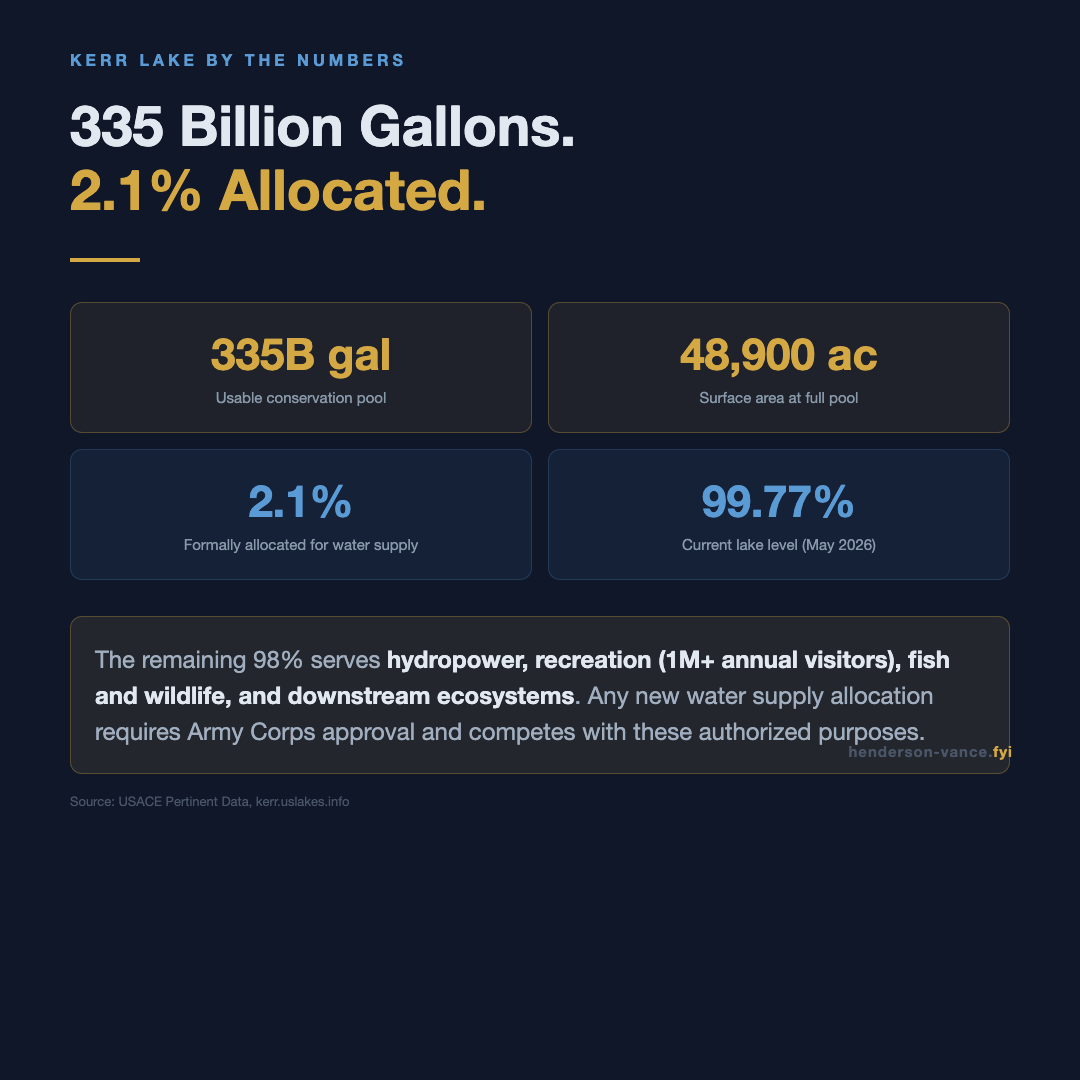
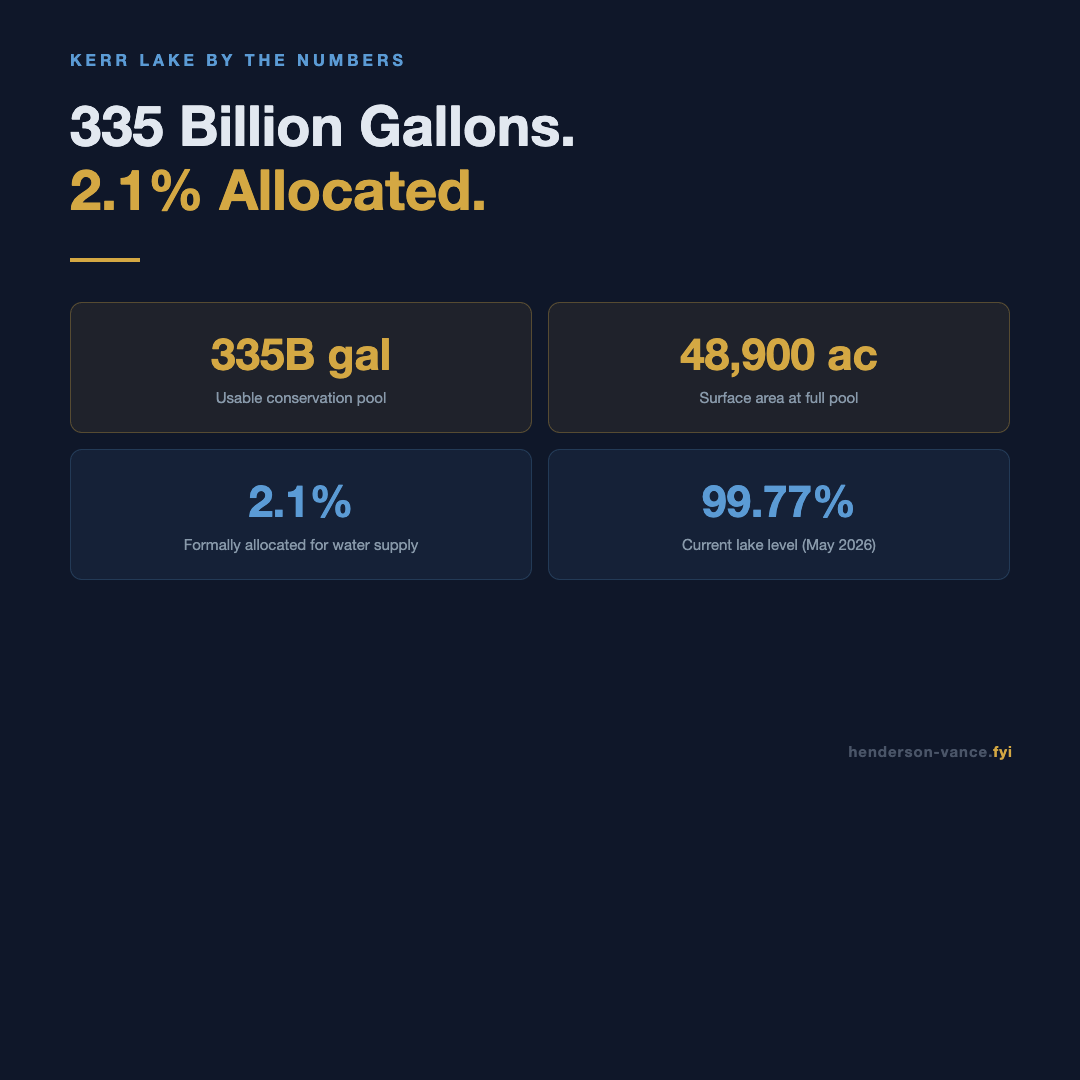
Remove highlight box and source line from card 5

Changed region(s): [[0.0917, 0.5806, 0.8861, 0.7028], [0.0917, 0.7333, 0.3056, 0.7639]]

diff --git a/public/carousel/franklin-05-kerrlake.html b/public/carousel/franklin-05-kerrlake.html
@@ -119,11 +119,6 @@
     </div>
   </div>
 
-  <div class="highlight-box">
-    <p>The remaining 98% serves <strong>hydropower, recreation (1M+ annual visitors), fish and wildlife, and downstream ecosystems</strong>. Any new water supply allocation requires Army Corps approval and competes with these authorized purposes.</p>
-  </div>
-
-  <div class="source">Source: USACE Pertinent Data, kerr.uslakes.info</div>
   <div class="site-brand">henderson-vance.<span class="gold">fyi</span></div>
 </body>
 </html>
